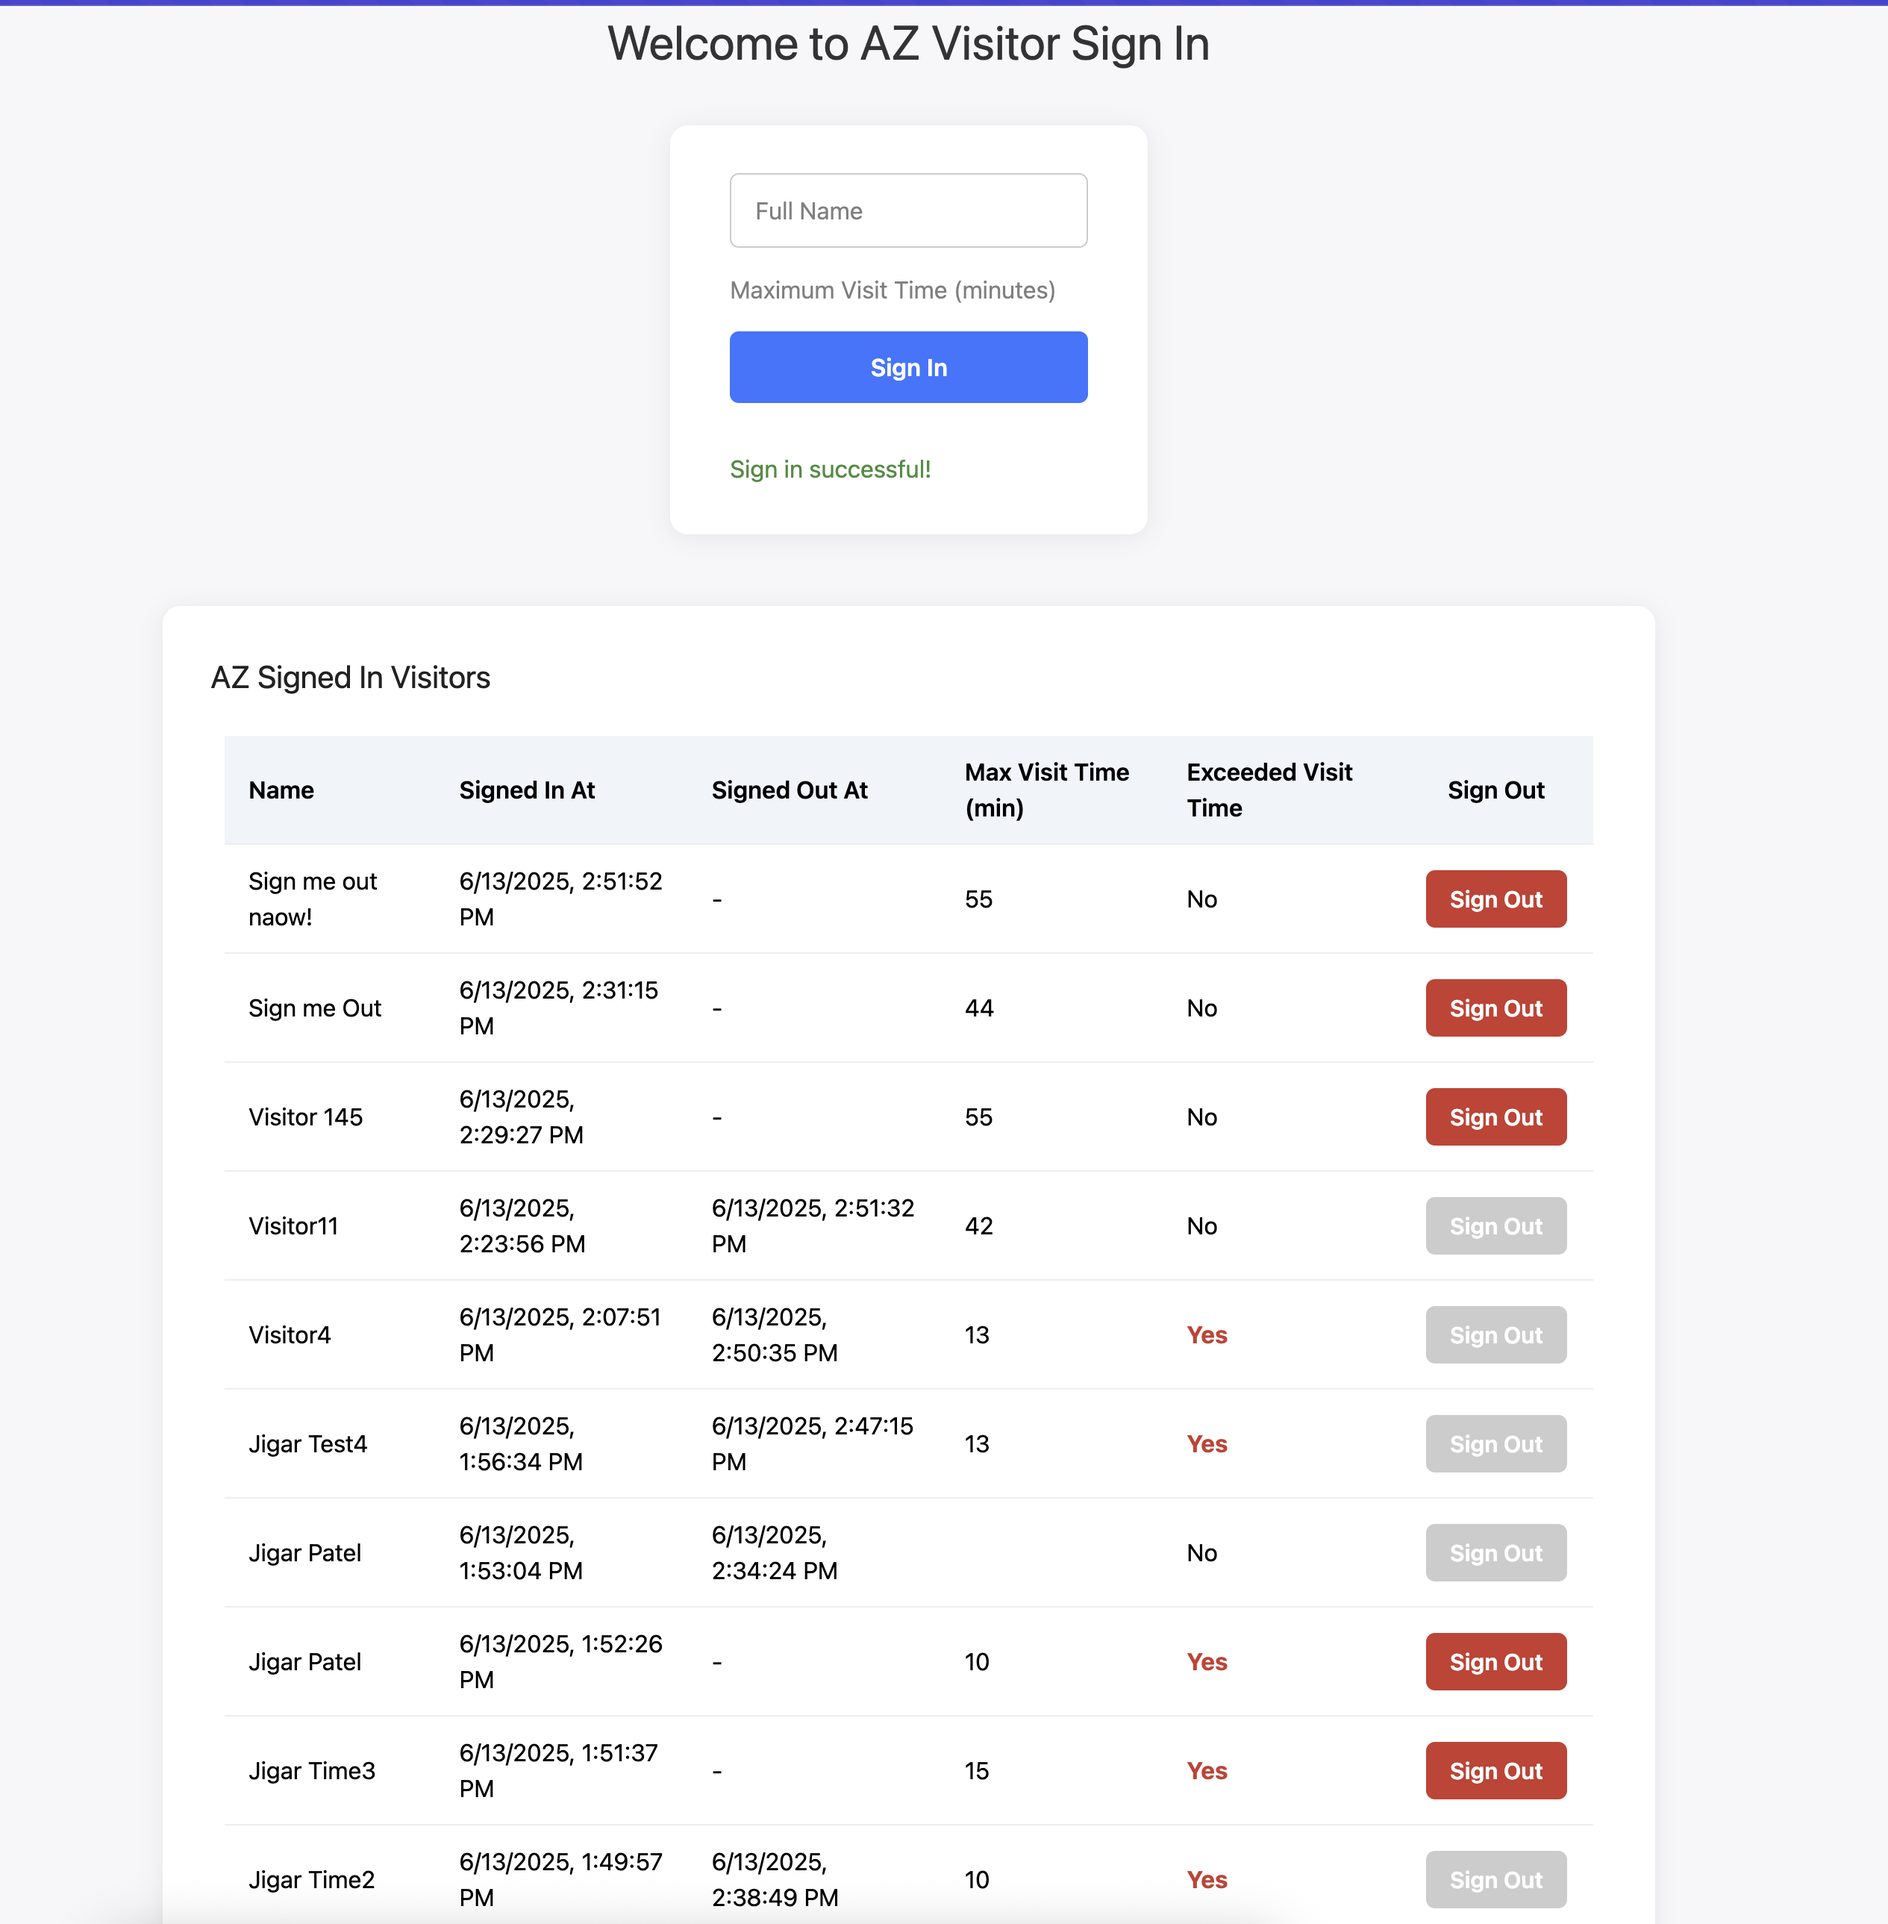
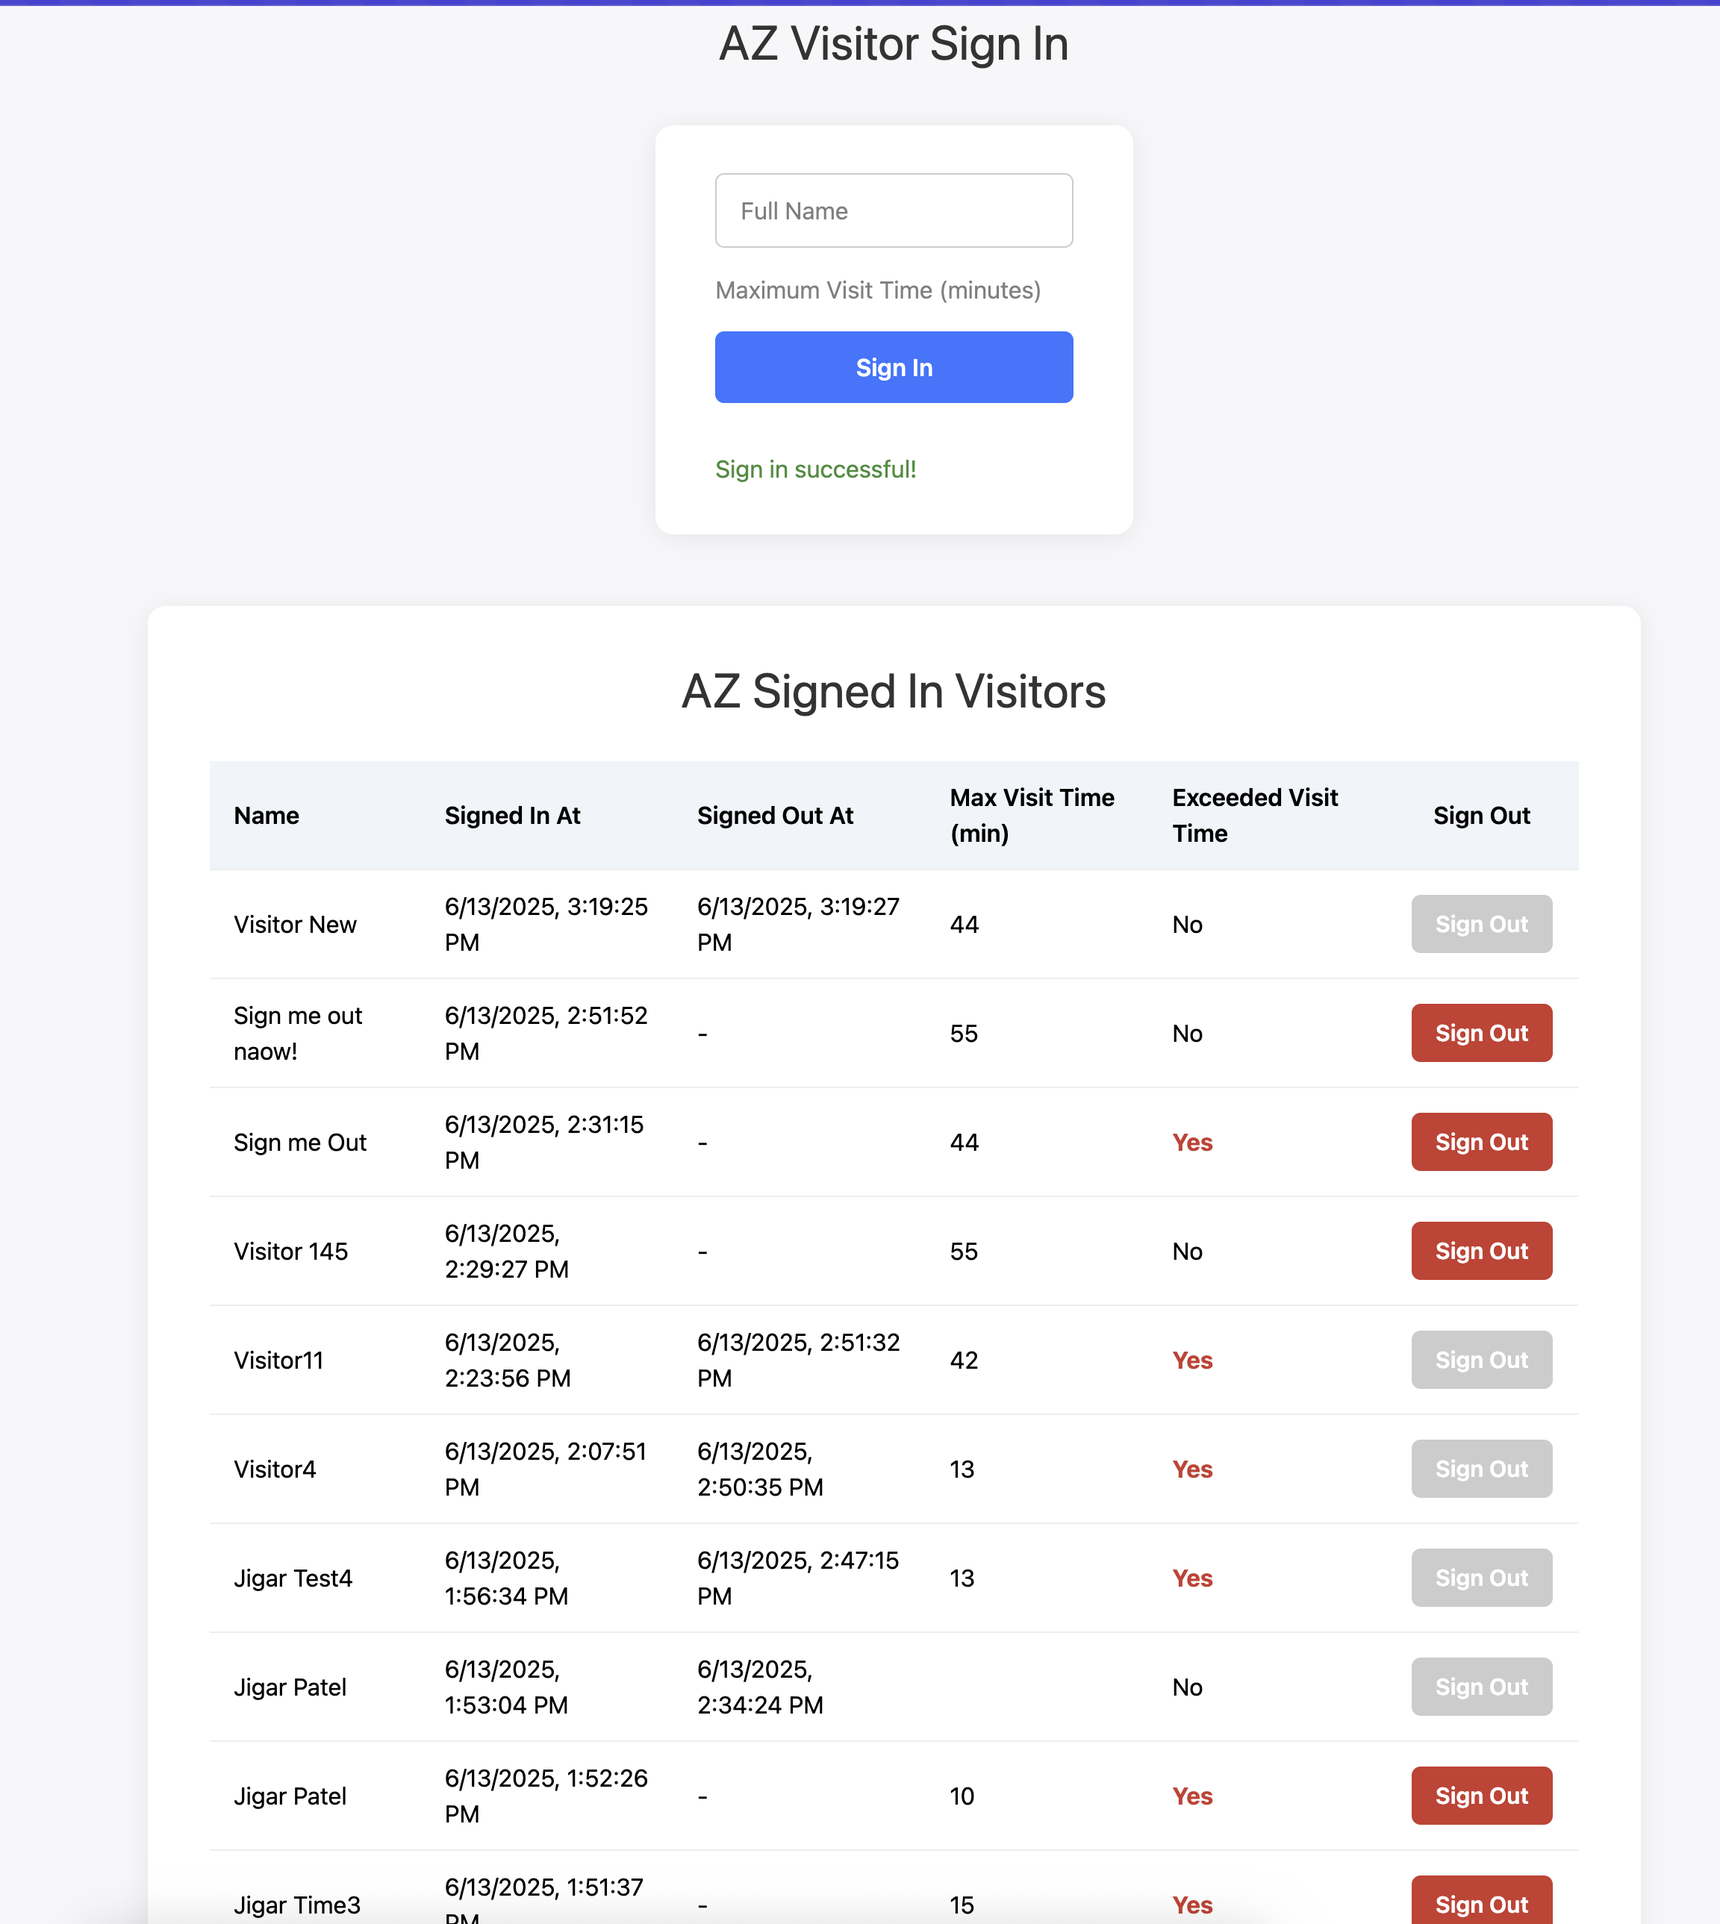
update readme and headers

diff --git a/src/routes/+page.svelte b/src/routes/+page.svelte
@@ -200,7 +200,7 @@ button[type="submit"]:hover {
 </style>
 
 <div class="page-container">
-  <h1>Welcome to AZ Visitor Sign In</h1>
+  <h1>AZ Visitor Sign In</h1>
   <form on:submit={handleSubmit}>
     <input
       type="text"
@@ -229,7 +229,7 @@ button[type="submit"]:hover {
   </form>
 
   <section class="visitors-section">
-    <h2>AZ Signed In Visitors</h2>
+    <h1 style="text-align: center; margin-bottom: 1.5rem;">AZ Signed In Visitors</h1>
     {#if recentSignIns && recentSignIns.length > 0}
       <table class="visitors-table">
         <thead>

diff --git a/src/routes/visitor-sign-out/+server.ts b/src/routes/visitor-sign-out/+server.ts
@@ -68,5 +68,6 @@ const parseEntries = (entries: any): SignInEntry[] => {
         maxVisitTime,
         exceededVisitTime,
       };
-    });
+    })
+    .slice(0, 10);
 };

diff --git a/README.md b/README.md
@@ -1,8 +1,9 @@
 # AZ Visitor App
 
-![App Screenshot](app-ss.png)
+
 
 Create .env file after cloning with ENVOY_CLIENT_API_KEY
 
 Run with `npm i && bun run dev`
 
+![App Screenshot](app-ss.png)
